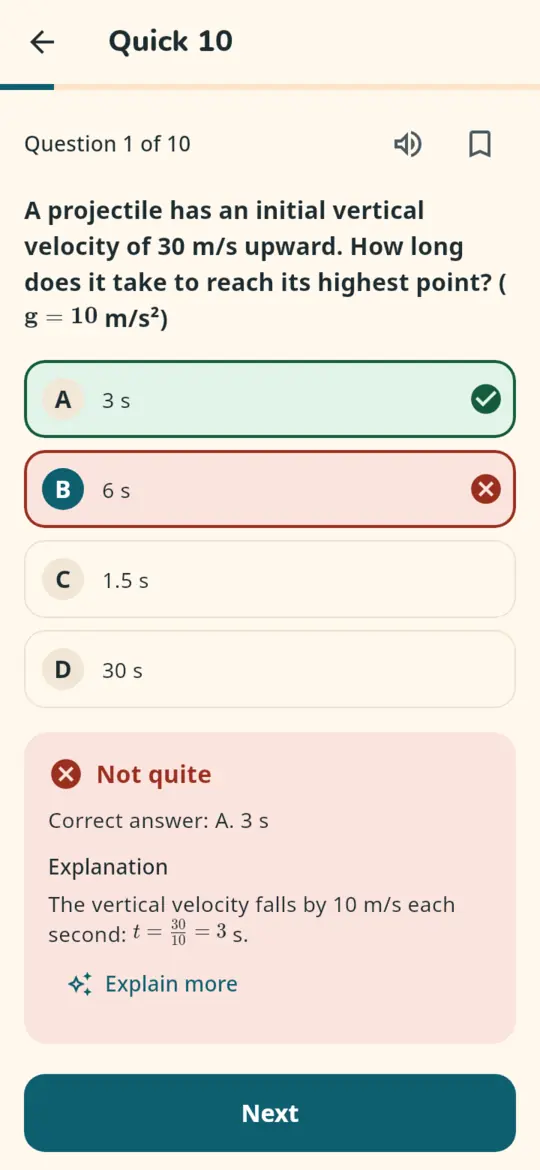
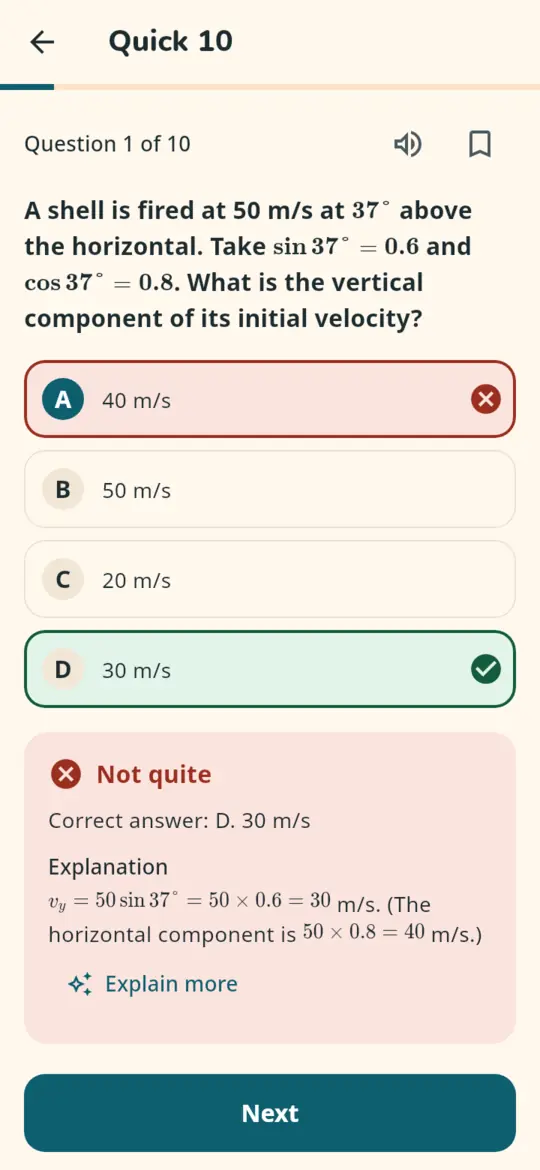
Landing pictures: fixed practice order so the "question" picture is the same on every run
CI showed the Quick 10 picture changing between runs: the app shuffles practice questions
with a new random order each time. The landing-picture test now builds practice sets with a
fixed seed (test-only provider override; the app is unchanged).

Claude-Session: https://claude.ai/code/session_01AEkC9wagM5BbrCAjatjPQv

diff --git a/app/test/golden/landing_screens_test.dart b/app/test/golden/landing_screens_test.dart
@@ -3,8 +3,10 @@ library;
 
 import 'dart:convert';
 import 'dart:io';
+import 'dart:math';
 
 import 'package:flutter_test/flutter_test.dart';
+import 'package:guul12/app/practice_set.dart';
 import 'package:guul12/data/repository.dart';
 import 'package:material_ui/material_ui.dart';
 
@@ -166,11 +168,21 @@ void main() {
   for (final MapEntry(key: name, value: (dark, scene)) in scenes.entries) {
     final file = 'goldens/landing/$name.png';
     testWidgets(file, (tester) async {
+      late Repository repository;
       await pumpGuul(
         tester,
         server: _server(),
         pixelRatio: 2,
+        // The app shuffles practice questions with a new random order each time; a fixed order
+        // keeps the picture the same on every run.
+        overrides: [
+          practiceSetProvider.overrideWith(
+            (ref, request) =>
+                buildPracticeSet(repository, request, random: Random(7), now: testNow),
+          ),
+        ],
         before: (repo) async {
+          repository = repo;
           await prepared(repo);
           await repo.chapter(22);
           await repo.db.writeString('theme_mode', dark ? 'dark' : 'light');

diff --git a/app/test/support/app_harness.dart b/app/test/support/app_harness.dart
@@ -1,6 +1,7 @@
 import 'dart:io';
 
 import 'package:flutter_riverpod/flutter_riverpod.dart';
+import 'package:flutter_riverpod/misc.dart' show Override;
 import 'package:flutter_test/flutter_test.dart';
 import 'package:guul12/app/ads_providers.dart';
 import 'package:guul12/app/app.dart';
@@ -59,6 +60,7 @@ Future<(Repository, FakeServer)> pumpGuul(
   Future<void> Function(Repository repo)? before,
   DateTime Function()? clock,
   double pixelRatio = 1,
+  List<Override> overrides = const [],
 }) async {
   // [size] is in logical pixels; a pixel ratio of 2 draws a sharper picture of the same screen.
   tester.view.physicalSize = size * pixelRatio;
@@ -83,6 +85,7 @@ Future<(Repository, FakeServer)> pumpGuul(
         hookQuestionsProvider.overrideWith(
           (ref) => parseHookQuestions(File(hookQuestionsAsset).readAsStringSync()),
         ),
+        ...overrides,
       ],
       child: const GuulApp(),
     ),
